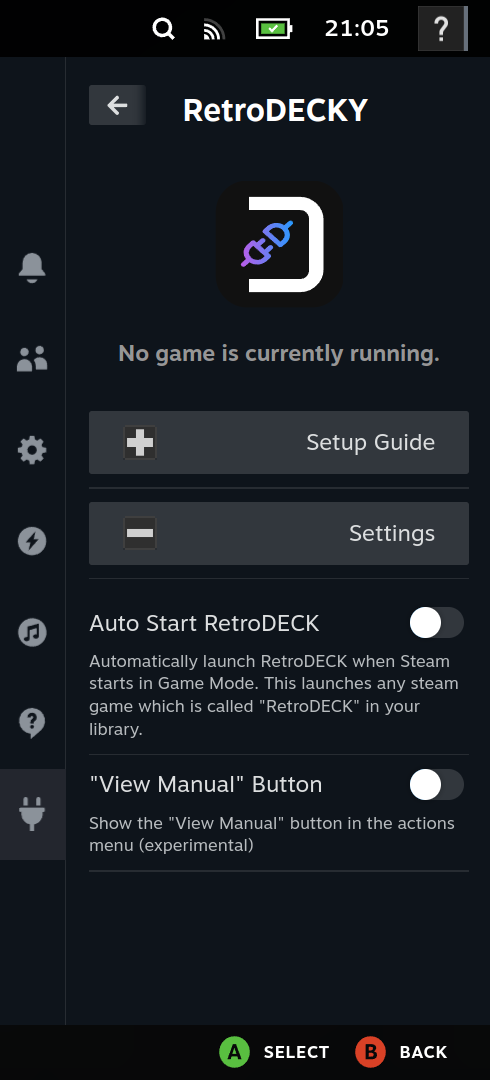
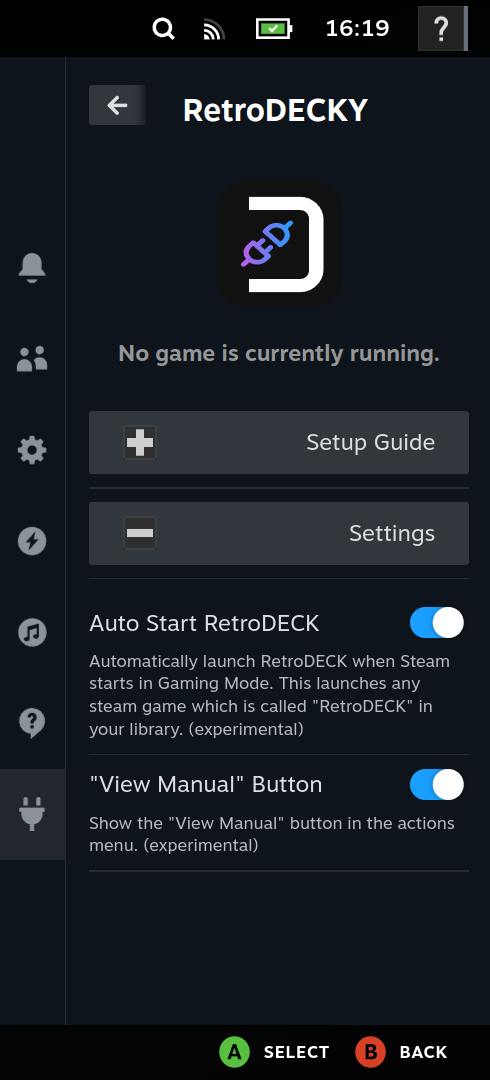
Updated setting description

diff --git a/src/components/settings.tsx b/src/components/settings.tsx
@@ -43,13 +43,13 @@ export const Settings = () => {
             showSettings && <div style={{ marginTop: '10px' }}>
                 <ToggleField
                     label="Auto Start RetroDECK"
-                    description={`Automatically launch RetroDECK when Steam starts in Game Mode. This launches any steam game which is called "RetroDECK" in your library.`}
+                    description={`Automatically launch RetroDECK when Steam starts in Gaming Mode. This launches any steam game which is called "RetroDECK" in your library. (experimental)`}
                     checked={autoStartEnabled}
                     onChange={setAutoStartEnabled}
                 />
                 <ToggleField
                     label={`"View Manual" Button`}
-                    description={`Show the "View Manual" button in the actions menu (experimental)`}
+                    description={`Show the "View Manual" button in the actions menu. (experimental)`}
                     checked={showManualButton}
                     onChange={setShowManualButton}
                 />
